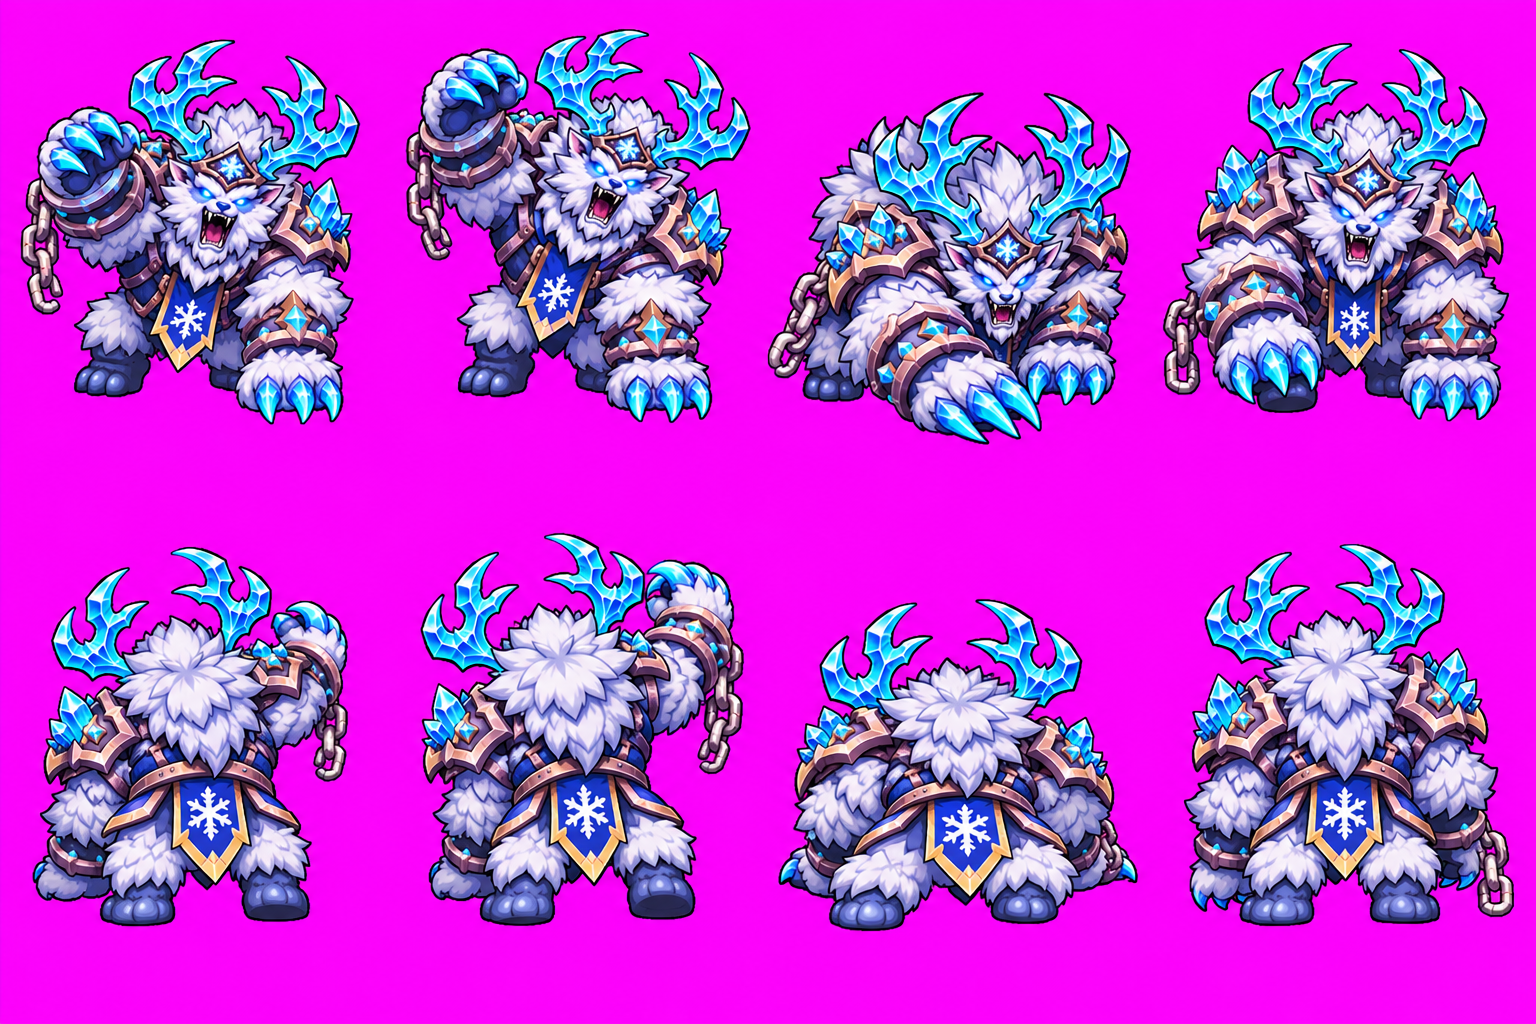
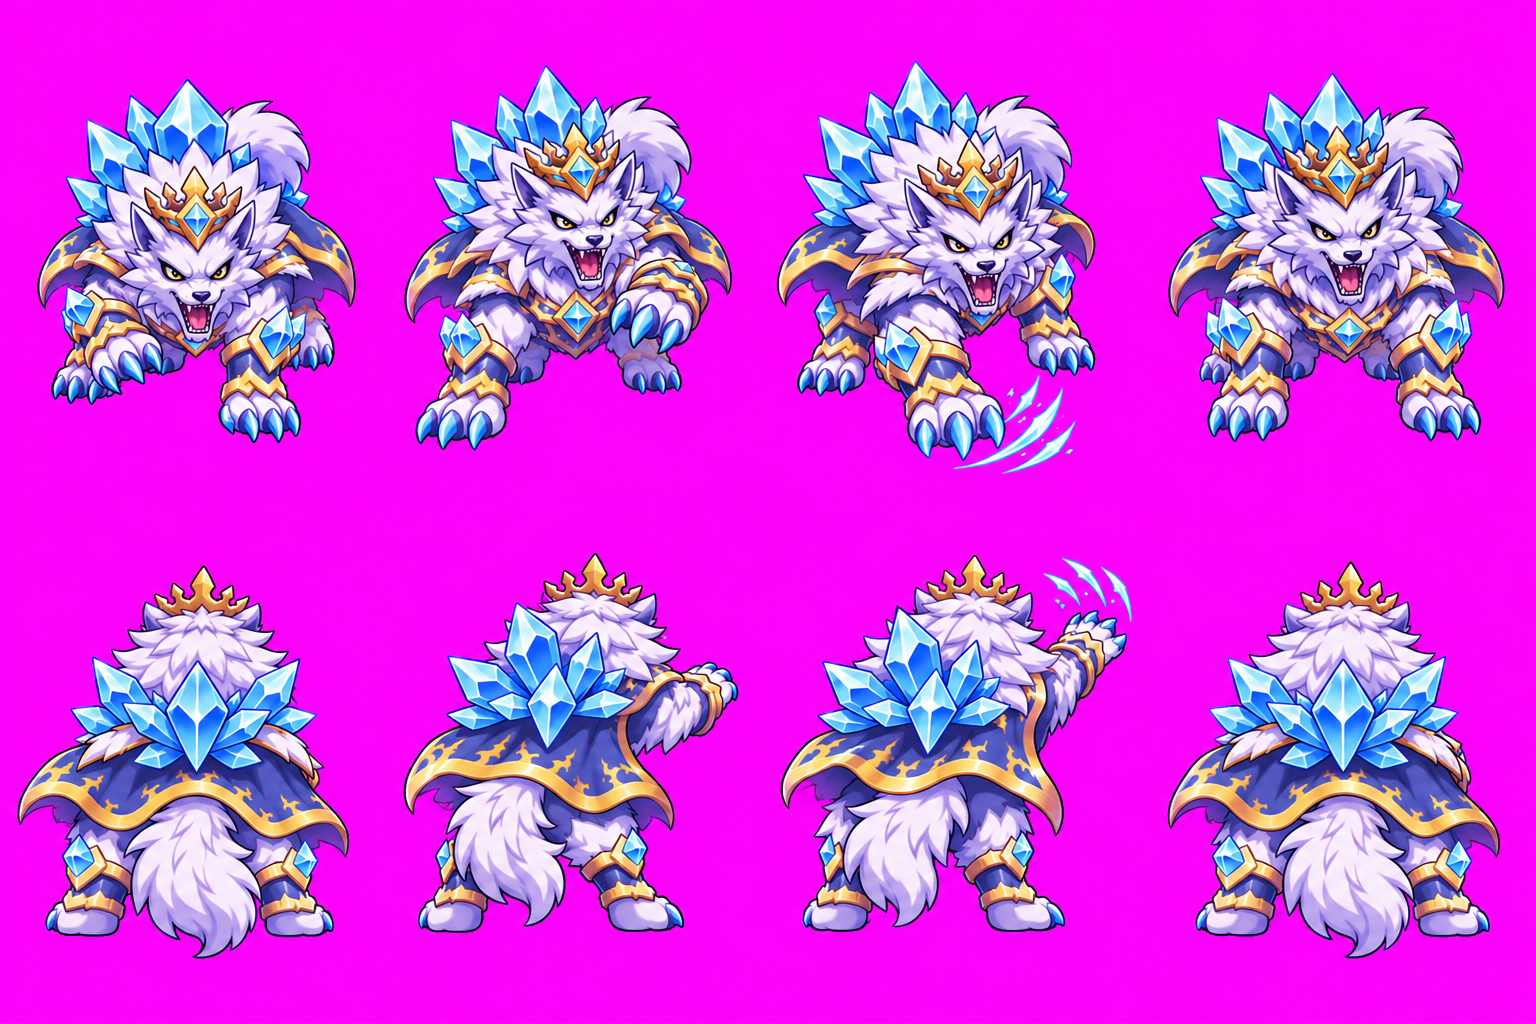
feat(wanted-boss): Rimeclaw Tyrant redrawn as the crowned ice wolf (RO Soft), portrait crop, bible and sprite-log update

diff --git a/Assets/Scripts/BossPortraits.cs b/Assets/Scripts/BossPortraits.cs
@@ -26,7 +26,7 @@ namespace ZenoniaProto
             { "ridgehornBehemoth", new Face(0.48f, 0.70f, 0.48f) },
             { "duneDevourer", new Face(0.52f, 0.72f, 0.52f) },
             // Wanted bosses (384 px cells)
-            { "rimeclawTyrant", new Face(0.53f, 0.52f, 0.36f) },
+            { "rimeclawTyrant", new Face(0.51f, 0.48f, 0.40f) },   // crowned ice wolf, 2026-11-20
             { "glacialColossus", new Face(0.52f, 0.44f, 0.38f) },
             { "mireHydraQueen", new Face(0.50f, 0.33f, 0.36f) },
         };

diff --git a/docs/pending-tasks.md b/docs/pending-tasks.md
@@ -3,6 +3,11 @@
 > Người dùng chốt 19/11 15:50: MỌI việc merge thẳng vào nhánh `ro-fantasy-heroes`, không để nhánh riêng chờ duyệt. 20/11 15:25: KHÔNG tách nhánh / worktree nữa, mọi code (kể cả agent) làm và commit thẳng trên nhánh hiện tại.
 > Người dùng chốt 20/11 15:15: hiệu ứng skill / đòn đánh làm bằng Particle System + Mesh Trail + shader (distortion, Bloom, Dissolve), KHÔNG làm VFX dạng sprite nữa (chi tiết đầu `docs/sprite-rules.md`).
 
+### 20/11 16:00 Wanted Boss Rimeclaw Tyrant vẽ lại thành SÓI VUA BĂNG (agent, XONG sprite, xem báo cáo)
+- Người dùng: "vẽ wanted boss con sói đi", chọn "Rimeclaw Tyrant thành sói", mẫu chính = con đầu tiên của `docs/reference/ui-style-ro-soft-fantasy/wanted-boss/5-wanted-boss-board-style.png`; sửa mắt theo góp ý "mất cái lòng đen". Id, skill, server, số liệu giữ nguyên.
+- ChatGPT Tan Pham (Chrome "Browser 1" 75b5d807; "Browser 2" 743f7981 là Tuan Tai, KHÔNG dùng): https://chatgpt.com/c/6b0003a9-2194-83ec-97c9-65878e4f9677 . Sheet đi / đánh / cast mới, chân dung bảng truy nã (`BossPortraits`) cắt lại. Bible mục 04 + mục 8.5 (mắt), Sổ lỗi sprite-rules. Báo cáo `plans/reports/rimeclaw-tyrant-wolf-261120.md`, ảnh `docs/reference/rimeclaw-tyrant-wolf/`.
+- CÒN: idle riêng chưa vẽ (sheet đi là nhịp thở tại chỗ); FX skill Rimeclaw vẫn tấm sprite cũ (chưa chuyển particle/shader).
+
 ### 20/11 17:30 Dọn asset không dùng (agent, XONG, commit afbf6e19)
 - Người dùng: "xoa nhung file assets đang ko dùng tới trong repo này". Xoá 956 file (~500 MB cây làm việc): `Assets/ArtLibrary/hd` (trừ `hd/map/frost-hollow` + `hd/map/willowbrook-meadows` tool còn đọc), 46 ảnh `docs/reference` không doc nào nhắc (biến thể Wizard đã bỏ, `hero-layered-farm/`, `village-compare-*`), 4 ảnh thả ở gốc repo. Không đụng Resources / Scripts nên game không đổi; build + chụp 5 class / 5 map OK.
 - Báo cáo + lệnh khôi phục + danh sách CHƯA CHẮC (chưa xoá, chờ người dùng): `plans/reports/asset-cleanup-261120.md`.
